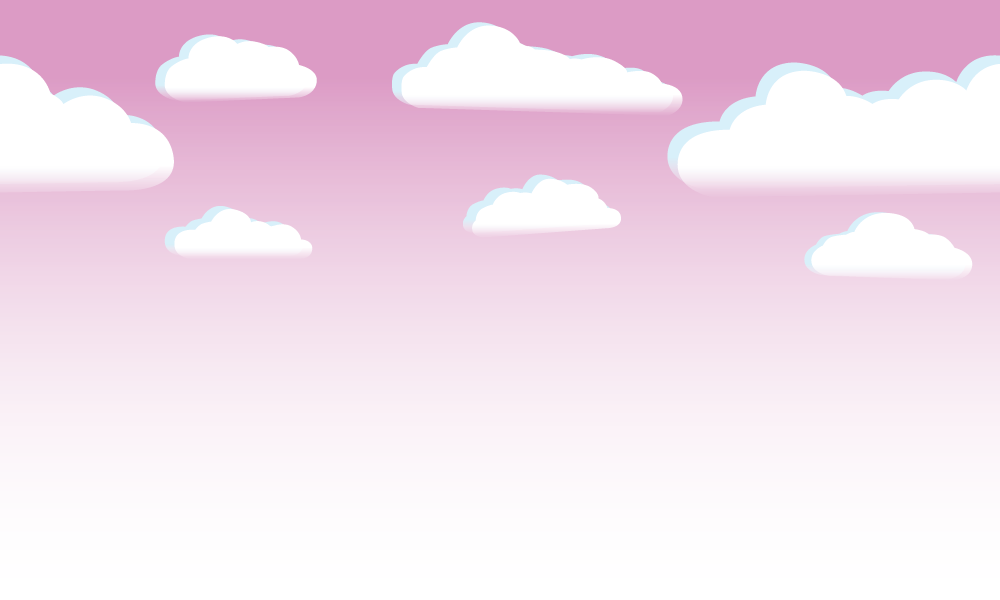
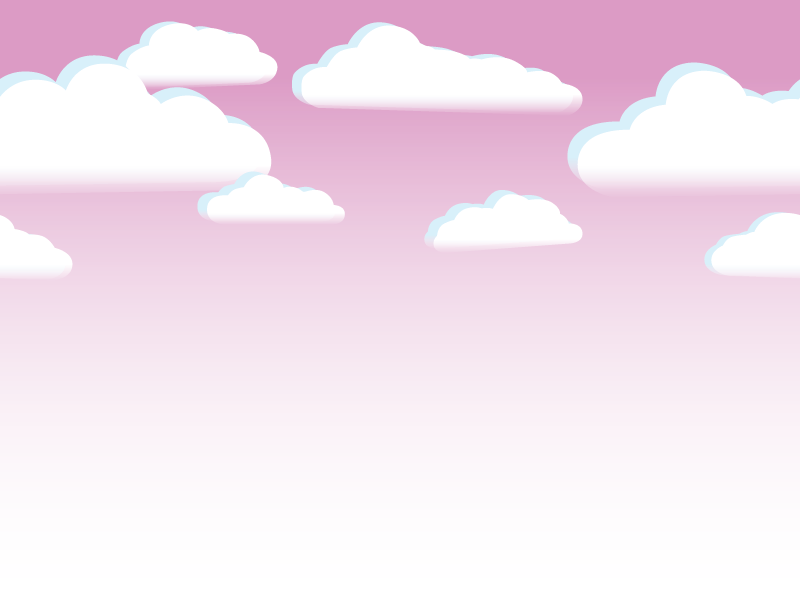
new background

diff --git a/mini_projet/game.py b/mini_projet/game.py
@@ -55,7 +55,7 @@ for n in range(NUMBER_OF_BACKGROUND):
     backgrounds_bottom.append(bg_b)
 
     bg_t = Actor("bg_top", anchor=('left', 'top'))
-    bg_t.pos = n * (WIDTH + 201), 0
+    bg_t.pos = n * (WIDTH+1), 0
     backgrounds_top.append(bg_t)
 
 #init des variables ECRANS (start, pause, mort)
@@ -151,7 +151,6 @@ def update(dt):
         dragon.animate()
 
         # hero update
-
 
         global hero_speed
 
